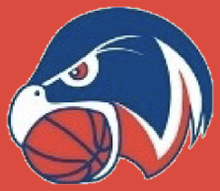
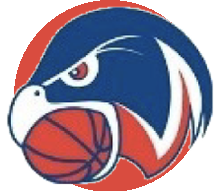
Correggi lo stemma: campo circolare rosso invece del quadrato
L'aquila resta identica all'originale (come Lissone Blu); solo il
campo dietro ora è un cerchio rosso pulito, non un rettangolo che
sborda dal badge.

Changed region(s): [[0.5455, 0.0, 1.0, 1.0], [0.0, 0.0, 0.4636, 1.0]]

diff --git a/index.html b/index.html
@@ -763,7 +763,7 @@ const GARE = [
  }
 ];
 const GIORNATA_DATA = {"1": "2026-11-14", "2": "2026-11-21", "3": "2026-11-28", "4": "2026-12-12", "5": "2026-12-19", "6": "2027-01-09", "7": "2027-01-16"};
-const AGGIORNATO = "11 novembre 2026, 21:26";
+const AGGIORNATO = "11 novembre 2026, 22:10";
 /* Loghi (facoltativo): cartella "loghi" accanto a index.html, es. 'LISSONE ROSSO': 'loghi/lissone-rosso.png' */
 const LOGHI = {
   'LISSONE ROSSO': 'loghi/lissone-rosso.png',
